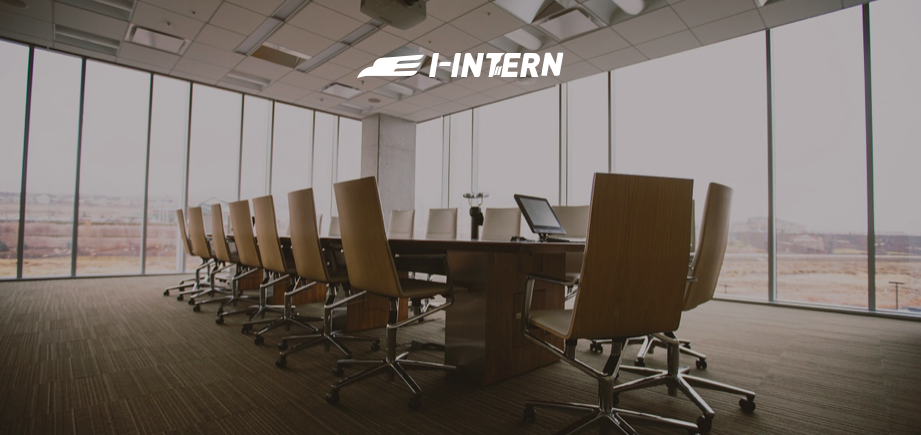
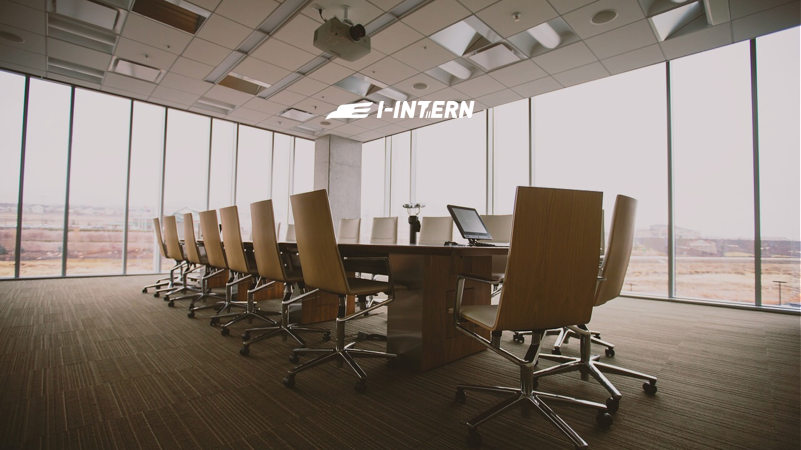
update

diff --git a/contact.html b/contact.html
@@ -130,14 +130,17 @@
             <i class="fas fa-arrow-up contact-mini-icon"></i>
         </div>
     </div>
-    <img class="header-img" width="100%" height="auto" src="./image/contact1.png" />
+    <span class="center-img" id="intern-slogan">我们对接全球知名企业，拥有千余精英导师，<br>求职顾问全程跟踪申请，学业到职业零距离。</span>
+    <div class="center-img">
+        <img class="case-img" width="25%" height="25%" src="./image/contact-header.png">
+    </div>
     <p class="header-sub">I-intern是一家专注为学生提供实习机会和背景提升的平台，地址在硅谷。公司运行至今，已经与许多知名企业及组织机构建立了合作伙伴关系。 母公司华岩资本是硅谷著名创投企业，曾帮助YOUKU优酷网成长为华语第一视频门户，帮助Musical.ly以十亿美金被今日头条和抖音收购，2017年占据全球投资回报率第二。
     </p>
     <div class="contact-container">
         <div class="row">
             <div class="col-sm">
                 <h3 class="company-whytitle">公司地址</h3>
-                <p class="company-whydetail">175 Forest Ave, Palo Alto, CA</p>
+                <p class="company-whydetail">175 Forest Ave,<br>Palo Alto, CA</p>
             </div>
             <div class="col-sm">
                 <h3 class="company-whytitle">联系电话</h3>
@@ -185,7 +188,7 @@
     </div>
     <div id="contact-join">
         <h2 class="bold-title">加入我们</h2>
-        <P class="header-sub">顶级团队亲自带你一起工作，你将获得宝贵的经验、扩宽自己的人脉。表现优异者可以获得创始人亲笔的推荐信以及转正机会，并提供OPT／CPT，H1b机会！</P>
+        <P class="header-sub">顶级团队亲自带你一起工作，你将获得宝贵的经验、扩宽自己的人脉。表现优异者可以获得创始人亲笔的推荐信以及转正机会，并提供OPT／CPT，H1B机会！</P>
         <a id="contact-btn" href="#contact-position">
             <button type="submit" class="btn btn-primary mb-2 company-btn">查看开放职位</button>
         </a>

diff --git a/index.html b/index.html
@@ -130,7 +130,7 @@
 
           </div>
         <div id="intro">
-            <img src="./image/header-deco.png" width="48px" height="auto">
+            <!-- <img src="./image/header-deco.png" width="48px" height="auto"> -->
             <h1>硅谷最具魄力的留学生背景提升平台</h1>
             <p id="intro-text">I-intern鹰腾实习平台立足于全球创新腹地硅谷，坐拥得天独厚的美国本土实习项目资源以及最前沿的求职提升咨询，
                 倾力打造“最精准，最有效，最广阔”的高端实习背景提升平台。独创线上线下实战模式，帮助学生快速了解行业，获取经验，
@@ -144,7 +144,7 @@
             </div>
         </div>
         <div id="service">
-            <img src="./image/header-deco.png" width="48px" height="auto">
+            <!-- <img src="./image/header-deco.png" width="48px" height="auto"> -->
             <h1>全面贴心的一站式服务</h1>
             <br><br>
             <div class="container">
@@ -185,7 +185,7 @@
             <a class="jump-service" href="./service-handbook.html">查看完整的服务内容  -></a>
         </div>
         <div id="choice">
-            <img src="./image/header-deco.png" width="48px" height="auto">
+            <!-- <img src="./image/header-deco.png" width="48px" height="auto"> -->
             <h1>为什么选择I-intern</h1>
             
             <div class="row counters" style="margin-bottom:35px;">
@@ -220,7 +220,7 @@
 
         <div id="feedback">
           <div class="center-container">
-          <img src="./image/header-deco.png" width="48px" height="auto">
+          <!-- <img src="./image/header-deco.png" width="48px" height="auto"> -->
           <h1>用户反馈 职享未来</h1>
         </div>
           <div class="feedback-container">

diff --git a/intern.html b/intern.html
@@ -148,7 +148,7 @@
 
                     <br> 但平衡个人生活方式、不同视角及个人需求的理念则是我们企业文化的重要内容。在源源不断的事业热情中展现才华，我们需要的正是这样的人。
                     <br>
-                    <br> — Mogan Stanley</p>
+                    </p>
             </div>
             <div class="col-sm-4 intern-company-hire">
                 <img class="intern-hire-words" src="./image/intern-google.png" />
@@ -160,7 +160,7 @@
                     <br> 同时，宁缺毋滥也是我们的招聘标准，漫长的五轮面试，也是我们精益求精的体现。
 
                     <br>
-                    <br> — Google</p>
+                    </p>
             </div>
             <div class="col-sm-4 intern-company-hire">
                 <img class="intern-hire-words" src="./image/intern-bs.png" />
@@ -170,7 +170,7 @@
                     <br> 我们找寻的是具备“韧性”、“坚毅” 的人，如同美式足球冲过重重阻拦只为多跑一码的跑锋那般。
                     <br> 当然，你需要你一个扎实的学位，因为尽管你做人合格，但是高强度的投资决策会让你返校重修。所以，过硬的专业素养是必须的。
                     <br>
-                    <br> — Blackstone Group</p>
+                    </p>
             </div>
         </div>
     </div>

diff --git a/service.html b/service.html
@@ -161,7 +161,7 @@
     </div>
 
     <div id="service-background">
-        <img src="./image/header-deco.png" width="48px" height="auto">
+        <!-- <img src="./image/header-deco.png" width="48px" height="auto"> -->
         <h2>职前提升明星计划</h2>
         <br>
         <br>
@@ -281,7 +281,7 @@
     </div>
 
     <div id="service-intern">
-        <img src="./image/header-deco.png" width="48px" height="auto">
+        <!-- <img src="./image/header-deco.png" width="48px" height="auto"> -->
         <h2>世界名企实习直推</h2>
         <br>
         <br>
@@ -300,7 +300,7 @@
     </div>
 
     <div id="service-summer">
-        <img src="./image/header-deco.png" width="48px" height="auto">
+        <!-- <img src="./image/header-deco.png" width="48px" height="auto"> -->
         <h2>创业体验精英实战</h2>
         <br>
         <br>
